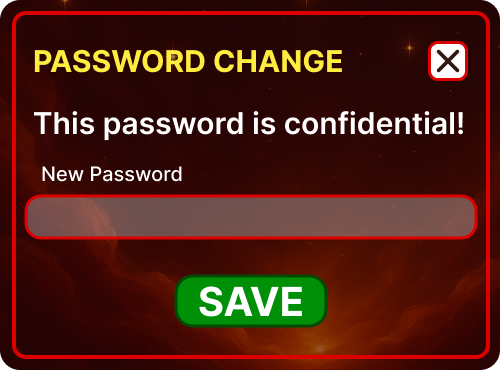
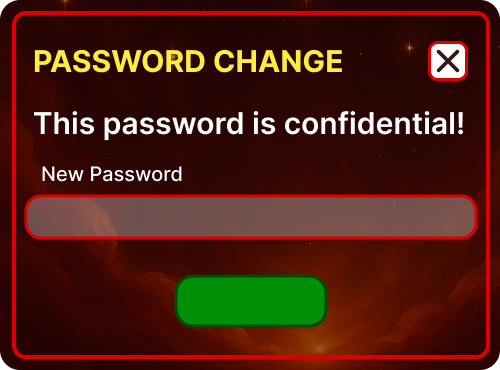
lavoro 20/06/2025 - luca

Changed region(s): [[0.39, 0.773, 0.6, 0.8622]]

diff --git a/core/src/codes/sorgente/Lobby/InputManager.java b/core/src/codes/sorgente/Lobby/InputManager.java
@@ -44,12 +44,16 @@ public class InputManager implements InputProcessor {
     // variabili per cambiare lo stile dei pulsanti
     protected static boolean isBtnStartHover=false, isBtnClaimHover=false, isBtnBuyHover=false, isBtnResetHover=false,
         isBtnLHover=false, isBtnRHover=false, isOpenSpHover=false, isBtnGloryHover=false, isTickSelected=false,
-        isHoverIconNoInternet=false, isDeleteAccountHover=false, isBtnDeleteHover=false;
+        isHoverIconNoInternet=false, isDeleteAccountHover=false, isBtnDeleteHover=false,
+        isBtnChangePSWHover=false, showPS=false;
     // lista delle pagine secondarie
     private final Set<Integer> listSecondPages = Set.of(4, 6, 7, 8, 9, 10, 11, 12, 13, 14, 15, 16, 17, 18, 19);
     // 'previousPage' serve a memorizzare l'ultima pagina aperta. //
     protected static int page=0; // settato a zero alla primissima istanza
     private int previousPage;
+
+    // variabili per comporre la stringa della nuova password
+    protected static StringBuilder passwordInput;
 
     // boolean per le carte speciali
     public static boolean goldHeart, shield, superLaser, doublePoints;
@@ -106,6 +110,8 @@ public class InputManager implements InputProcessor {
         item1=item2=item3=item4=item5=item6=0;
         // recupero crediti
         currentCredit = (int) DataUserManager.getProgress("credits");
+
+        passwordInput = new StringBuilder();
 
         // recupero volume audio
         soundPercent = ((Number) DataUserManager.getProgress("sound_volume")).floatValue();
@@ -200,14 +206,6 @@ public class InputManager implements InputProcessor {
         */
 
         System.out.println("screenX: "+screenX+" screenY: "+screenY);
-
-        // todo: aggiungere l'apertura per il cambio password
-        //  aggiungere l'hover per la conferma del cambio password
-        //  per il cambio password controllare che sia diversa da quella attuale altrimenti non va nè l'hover nè
-        //  la chiamata al metodo savePassword(nick, psw) di CloudStorageManager che sovrascrive la vecchia password
-        //  con quella nuova
-        //  permettere la digitazione della nuova password solo se open21 è true, limitare a 10 caratteri
-        //  permettere di mostrare/nascondere la password durante la digitazione, come nelle pagine di autenticazione
 
         // **************************************** //
         // CAMBIO PAGINE LOBBY + CLICK NELLE PAGINE //
@@ -576,6 +574,11 @@ public class InputManager implements InputProcessor {
                 SoundManager.playClickButton(soundPercent); // riproduzione suono click
                 secondScreen = open19 = true;
             }
+            // apertura password change
+            if (page==6 && !open19 && !open22 && (screenX>=434 && screenX<=454) && (screenY>=325 && screenY<=345)) {
+                SoundManager.playClickButton(soundPercent); // riproduzione suono click
+                secondScreen = open21 = true;
+            }
             // apertura delete profile
             if (page==6 && !open19 && !open21 && (screenX>=424 && screenX<=460) && (screenY>=235 && screenY<=271)) {
                 SoundManager.playClickButton(soundPercent); // riproduzione suono click
@@ -594,7 +597,25 @@ public class InputManager implements InputProcessor {
                 ui.disposeUI(); // rilascio risorse
                 // apertura pagina autenticazione
                 LobbyManager.game.setScreen(new LoginSignupManager(LobbyManager.game));
+            }
 
+            // mostra/nascondi password
+            if (open21 && (screenX>=674 && screenX<=704) && (screenY>=364 && screenY<=394)) showPS=!showPS;
+            // salvataggio nuova password
+            if (open21 && (screenX>=415 && screenX<=565) && (screenY>=438 && screenY<=488) && (!AuthAlgorithms.password.contentEquals(passwordInput))) {
+                // cambio valori variabili
+                String newPassword = passwordInput.toString();
+                AuthAlgorithms.password = newPassword;
+
+                // sovrascrittura in remoto della nuova password
+                try {
+                    CloudStorageManager.savePassword(AuthAlgorithms.nickname, newPassword);
+                } catch (IOException e) {
+                    throw new RuntimeException(e);
+                }
+
+                passwordInput.setLength(0); // reset lunghezza per futuri cambi
+                secondScreen = open21 = false; // chiusura pagina cambio password
             }
 
             // selezione avatar
@@ -812,7 +833,7 @@ public class InputManager implements InputProcessor {
     public boolean mouseMoved(int screenX, int screenY) {
         // finché si muove fuori dai pulsanti rimangono spenti, con le grafiche di base
         isBtnStartHover=isBtnClaimHover=isBtnBuyHover=isBtnResetHover=isBtnLHover=isBtnRHover=isOpenSpHover=
-            isBtnGloryHover=isHoverIconNoInternet=isDeleteAccountHover=isBtnDeleteHover=false;
+            isBtnGloryHover=isHoverIconNoInternet=isDeleteAccountHover=isBtnDeleteHover=isBtnChangePSWHover=false;
         // cambio cursore
         Gdx.graphics.setCursor(UIManager.cursor);
 
@@ -829,9 +850,11 @@ public class InputManager implements InputProcessor {
 
         // rtg (road to glory)
         if (page==6 && !open19 && !open21 && !open22 && (screenX>=30 && screenX<=484) && (screenY>=488 && screenY<=555)) isBtnGloryHover=true;
+        // password change action button
+        if (open21 && (screenX>=415 && screenX<=565) && (screenY>=438 && screenY<=488) && (!AuthAlgorithms.password.contentEquals(passwordInput))) isBtnChangePSWHover=true;
         // delete the account
         if (page==6 && !open19 && !open21 && !open22 && (screenX>=424 && screenX<=460) && (screenY>=235 && screenY<=271)) isDeleteAccountHover=true;
-        // delete account button
+        // delete account action button
         if (open22 && (screenX>=415 && screenX<=565) && (screenY>=438 && screenY<=488)) isBtnDeleteHover=true;
 
         // pagine della lobby
@@ -902,8 +925,21 @@ public class InputManager implements InputProcessor {
         return true;
     }
 
+    // metodo per rilevare la digitazione della tastiera
+    @Override public boolean keyTyped(char character) {
+        // riproduzione suono digitazione
+        SoundManager.playDigitSound(soundPercent); // suono del click
+
+        if (open21) {
+            if (character == '\b' && !passwordInput.isEmpty()) passwordInput.deleteCharAt(passwordInput.length() - 1);
+                // controllo digitazione caratteri validi
+            else if (character >= 32 && character < 127 && passwordInput.length() <= 10) passwordInput.append(character);
+        }
+
+        return true;
+    }
+
     // altri metodi
-    @Override public boolean keyTyped(char character) { return false; }
     @Override public boolean keyUp(int keycode) { return false; }
     @Override public boolean touchCancelled(int screenX, int screenY, int pointer, int button) { return false; }
 

diff --git a/core/src/codes/sorgente/Lobby/UIManager.java b/core/src/codes/sorgente/Lobby/UIManager.java
@@ -31,7 +31,7 @@ public class UIManager implements ResourceLoader {
     private Texture tickImg, diffCG1, diffCG2, diffCG3, diffSB1, diffSB2, diffSB3, rectSelectCard,
         claimPrize, progressMissions, notifyCompletedMissions, txtSoldOut, soundOn, soundOff, musicOn, musicOff, selectedSetting,
         volumeState, bgSpacecraftSelection, spacecraftSelectionBox, topBanner, topBanner2, btnResetActive, noInternetIcon,
-        noInternetMessage;
+        noInternetMessage, showPS, coverPS;
 
     // textureRegione per definire l'area di completamento della task corrente in Missions
     private TextureRegion progressBarRegion;
@@ -53,7 +53,7 @@ public class UIManager implements ResourceLoader {
 
     private BitmapFont fontBlue20, fontMediumBlue15, fontMediumBlue20, fontBoldBlue20,fontMediumWhite20,
         fontBoldWhite15, fontBoldWhite18, fontBoldWhite20, fontBoldWhite25, fontBoldWhite27, fontBoldWhite30, fontBoldWhite35,
-        fontItalicBoldWhite15, fontBoldWhite60, fontSemiboldYellow25;
+        fontBoldWhite40, fontItalicBoldWhite15, fontBoldWhite60, fontSemiboldYellow25;
 
     // hashmap/liste per diverse texture
     private final HashMap<Integer, Texture> mapLobby; // schermate lobby
@@ -85,7 +85,7 @@ public class UIManager implements ResourceLoader {
         this.mapAvatars = new HashMap<>();
         mapSpacecrafts = new HashMap<>();
         spacecrafts = new ArrayList<>();
-        this.buttonsOver = new Texture[12];
+        this.buttonsOver = new Texture[13];
         this.alphaFragments = new Texture[5];
         this.badgesRTG = new Texture[5];
 
@@ -135,6 +135,7 @@ public class UIManager implements ResourceLoader {
             fontBoldWhite27 = new BitmapFont(Gdx.files.internal("font/inter/bold_white_27.fnt")); // inter-bold white 27
             fontBoldWhite30 = new BitmapFont(Gdx.files.internal("font/inter/bold_white_30.fnt")); // inter-bold white 30
             fontBoldWhite35 = new BitmapFont(Gdx.files.internal("font/inter/bold_white_35.fnt")); // inter-bold white 35
+            fontBoldWhite40 = new BitmapFont(Gdx.files.internal("font/inter/bold_white_40.fnt")); // inter-bold white 40
             fontItalicBoldWhite15 = new BitmapFont(Gdx.files.internal("font/inter/bold_italic_white_15.fnt")); // inter-italic-bold white 15
             fontBoldWhite60 = new BitmapFont(Gdx.files.internal("font/inter/bold_white_60_1.fnt"));
             // yellow
@@ -192,7 +193,7 @@ public class UIManager implements ResourceLoader {
         selectedSetting = new Texture("images/selected_setting.png");
 
         // pulsanti "hover"
-        for (int i = 0; i < 12; i++) {
+        for (int i = 0; i < 13; i++) {
             buttonsOver[i] = new Texture("images/btns_hover/hover_btn" + (i+1) + ".png");
         }
 
@@ -257,6 +258,10 @@ public class UIManager implements ResourceLoader {
         // icona internet assente
         noInternetIcon = new Texture("login_signup_screens/no_internet.png");
         noInternetMessage = new Texture("images/alert_message_noInternet.png");
+
+        // icona mostra/nascondi password
+        showPS = new Texture("login_signup_screens/showPS.png");
+        coverPS = new Texture("login_signup_screens/coverPS.png");
     }
 
     // **************** //
@@ -817,6 +822,25 @@ public class UIManager implements ResourceLoader {
             else if (InputManager.open16) drawSettingsPage(screen); // impostazioni di gioco
             else if (InputManager.open19) drawGloryPage(screen); // road to glory
             else if (InputManager.open20) drawLeaderboard(screen); // leaderboard
+            else if (InputManager.open21) { // password change
+                screen.draw(mapLobby.get(21), 250, 165);
+
+                // button hover
+                if (InputManager.isBtnChangePSWHover) screen.draw(buttonsOver[12], 424, 207);
+
+                // testo "DELETE"
+                fontBoldWhite40.draw(screen, "SAVE", 449, 249);
+
+                // password digitata + icona mostra/nascondi psw
+                if (!InputManager.showPS) {
+                    fontBoldWhite30.draw(screen, "*".repeat(InputManager.passwordInput.length()), 290, 325);
+                    screen.draw(coverPS, 685,303);
+                }
+                else {
+                    fontBoldWhite30.draw(screen, InputManager.passwordInput, 290, 328);
+                    screen.draw(showPS, 685,303);
+                }
+            }
             else if (InputManager.open22) { // delete profile
                 screen.draw(mapLobby.get(22), 250, 165);
 
@@ -826,8 +850,6 @@ public class UIManager implements ResourceLoader {
                 // testo "DELETE"
                 fontBoldWhite35.draw(screen, "DELETE", 437, 247);
             }
-
-            // todo: settare la schermata del cambio mostrando la nuova password che si sta digitando nell'InputManager
         }
     }
 

diff --git a/core/src/codes/sorgente/LogInSignUp/LoginSignupManager.java b/core/src/codes/sorgente/LogInSignUp/LoginSignupManager.java
@@ -147,11 +147,11 @@ public class LoginSignupManager extends ScreenAdapter implements ResourceLoader 
             else screen.draw(loginPageBtnHover, 428, 99);
         }
 
-        font.draw(screen, alg.nicknameInput, 265, 414); // testo password
+        font.draw(screen, alg.nicknameInput, 272, 412); // testo nickname
 
-        // la password può essere visibile o meno, l'utente deve solo cliccare l'icona a dx
-        if (!alg.showPS) font.draw(screen, "*".repeat(alg.passwordInput.length()), 265, 310);
-        else font.draw(screen, alg.passwordInput, 265, 315);
+        // testo password che può essere visibile o meno, l'utente deve solo cliccare l'icona a dx
+        if (!alg.showPS) font.draw(screen, "*".repeat(alg.passwordInput.length()), 272, 310);
+        else font.draw(screen, alg.passwordInput, 272, 316);
 
         screen.end();
     }
